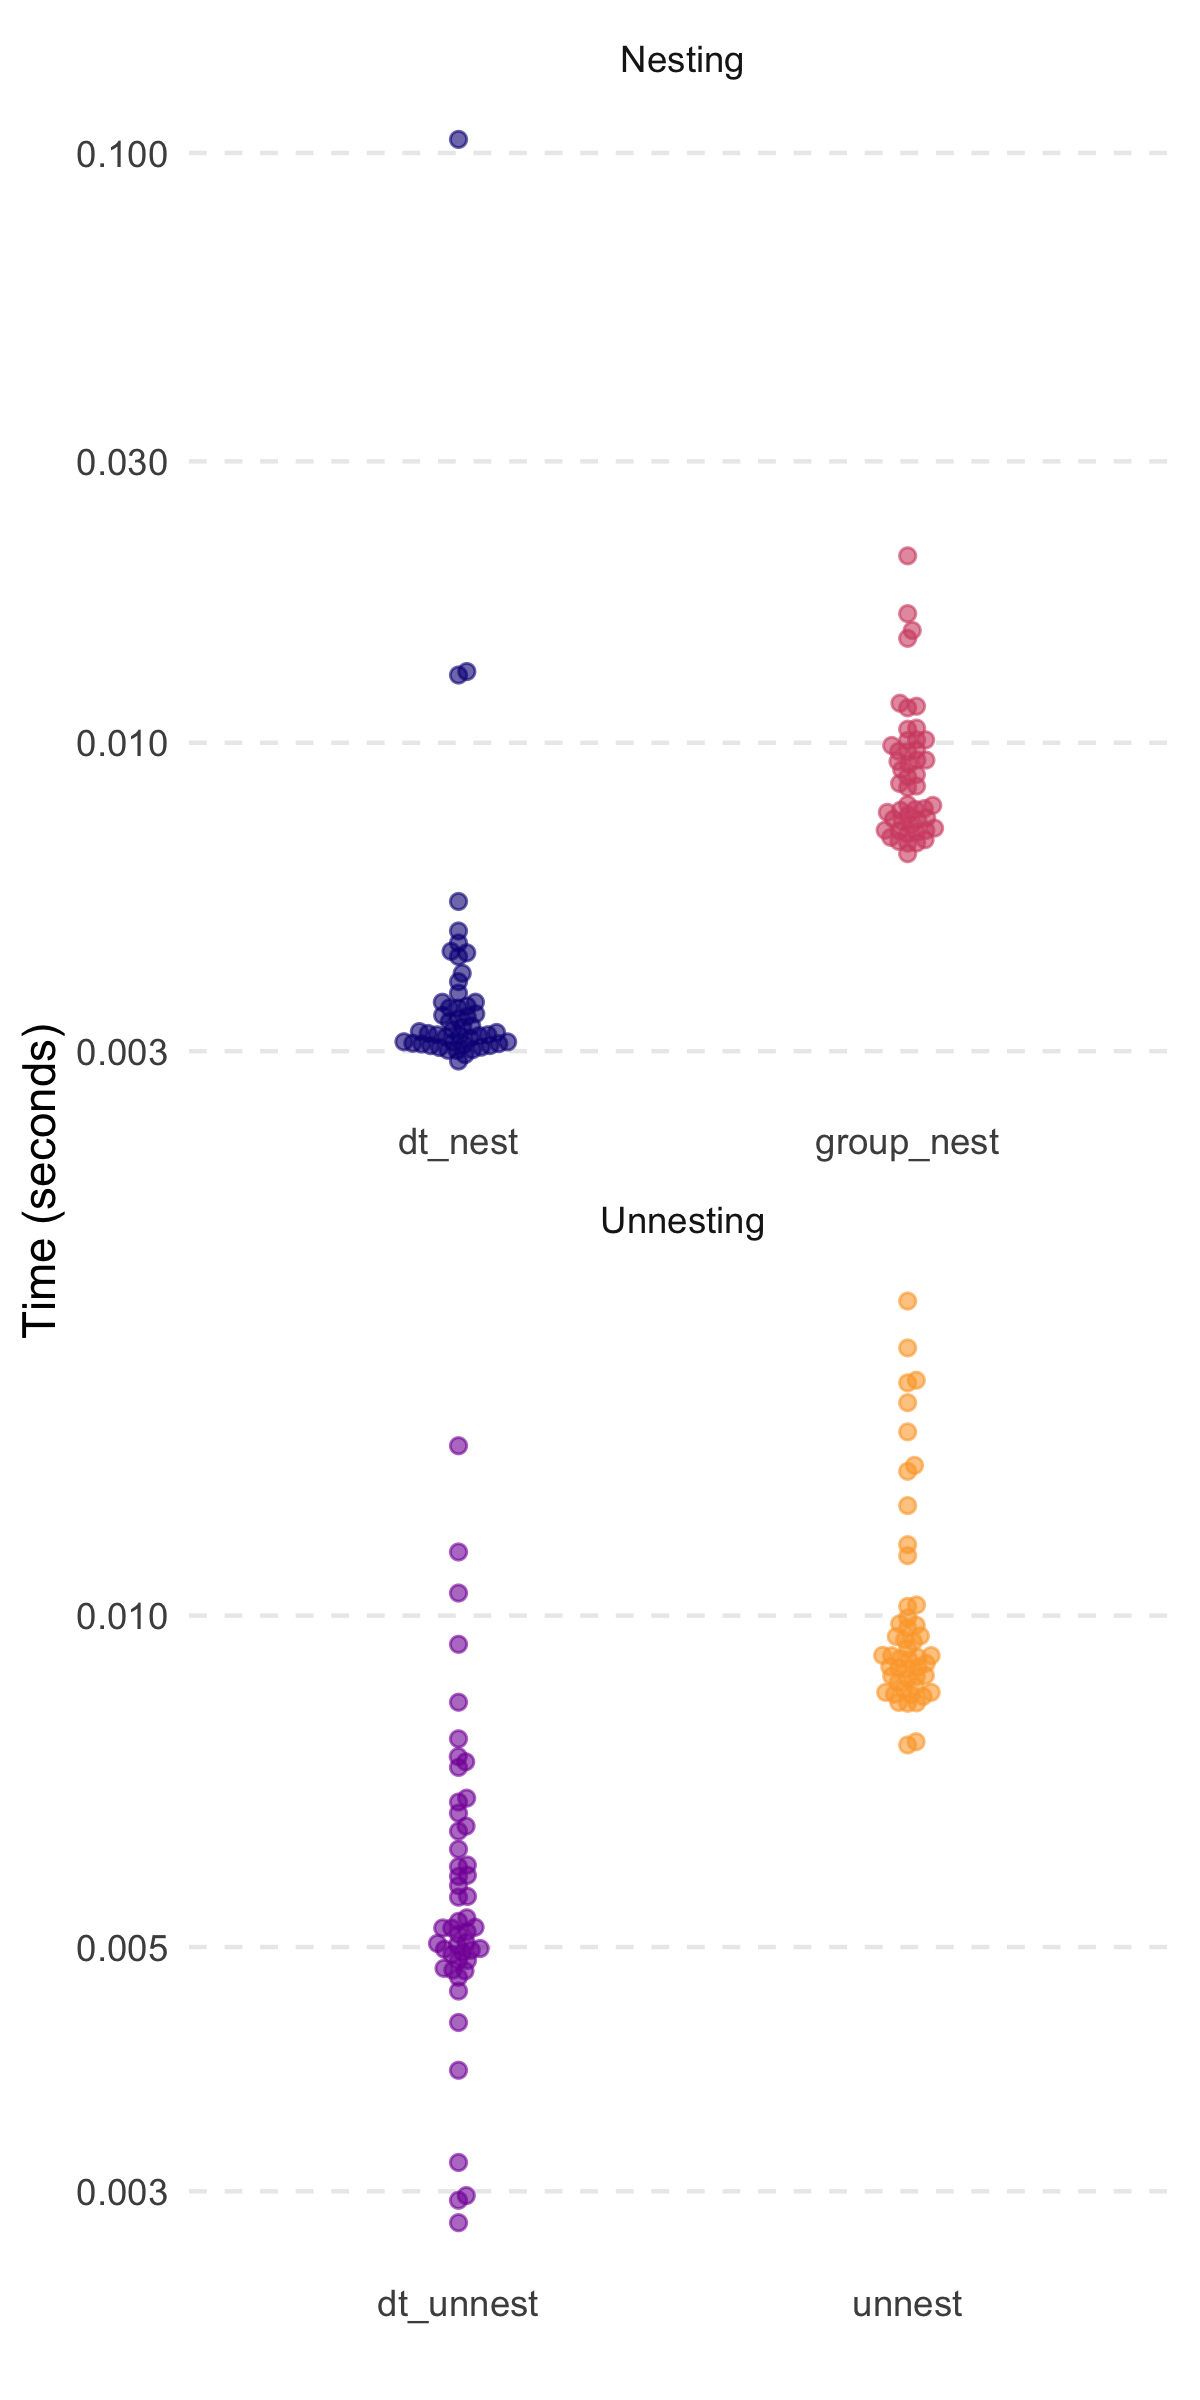
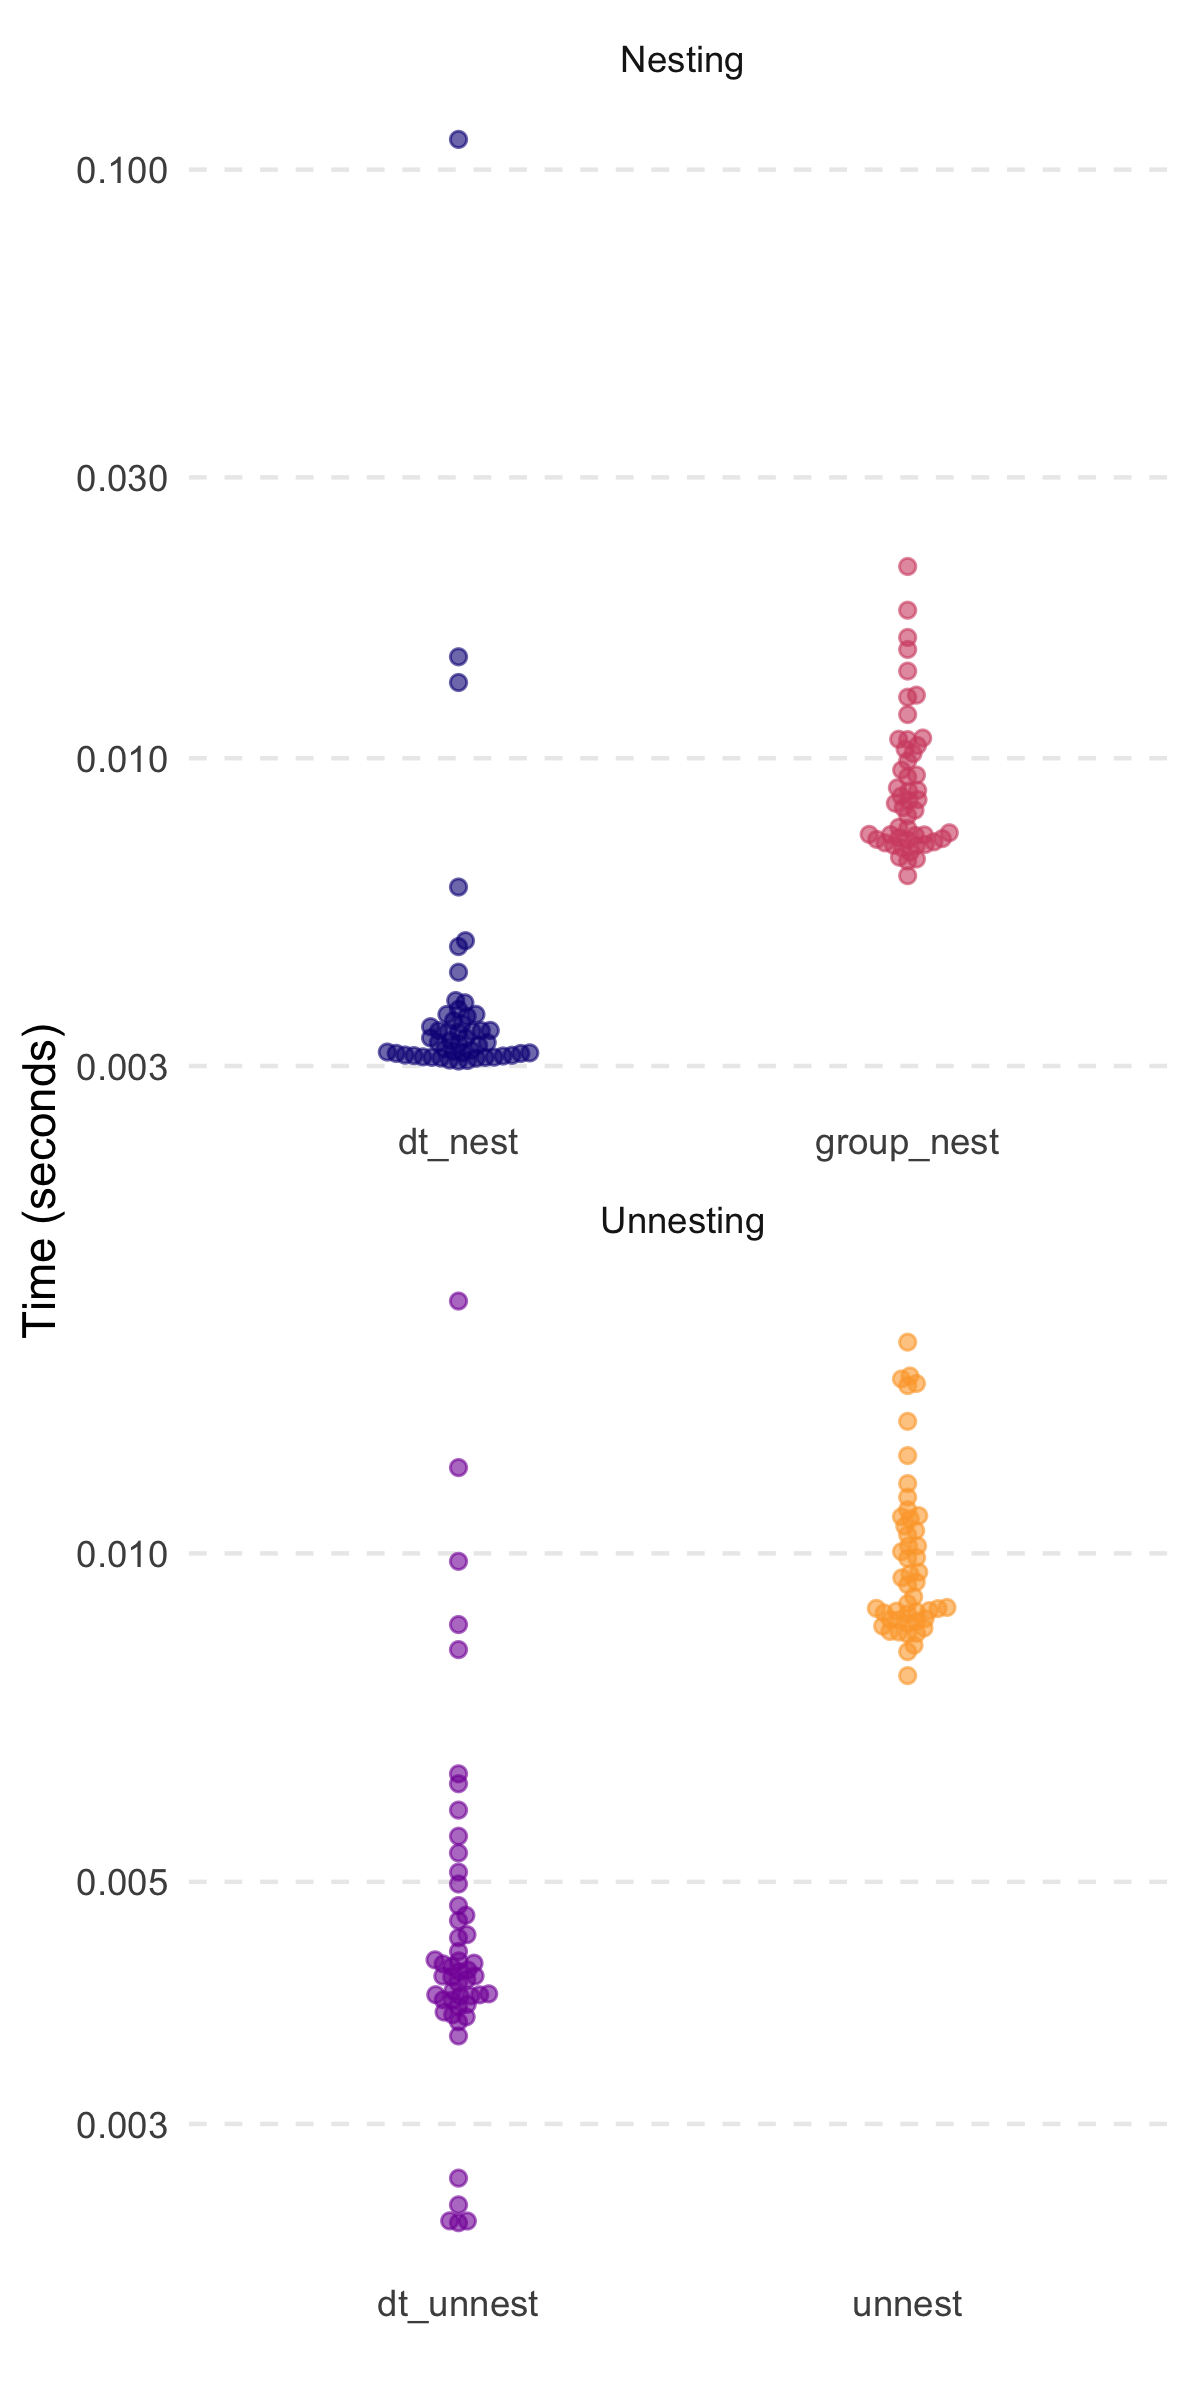
updating docs and such

diff --git a/README.md b/README.md
@@ -9,10 +9,10 @@
 status](https://www.r-pkg.org/badges/version/tidyfast)](https://CRAN.R-project.org/package=tidyfast)
 [![Lifecycle:
 maturing](https://img.shields.io/badge/lifecycle-maturing-blue.svg)](https://www.tidyverse.org/lifecycle/#maturing)
-[![Travis build
-status](https://travis-ci.org/TysonStanley/tidyfast.svg?branch=master)](https://travis-ci.org/TysonStanley/tidyfast)
 [![Codecov test
 coverage](https://codecov.io/gh/TysonStanley/tidyfast/branch/master/graph/badge.svg)](https://codecov.io/gh/TysonStanley/tidyfast?branch=master)
+[![R build
+status](https://github.com/TysonStanley/tidyfast/workflows/R-CMD-check/badge.svg)](https://github.com/TysonStanley/tidyfast/actions)
 <!-- badges: end -->
 
 The goal of `tidyfast` is to provide fast and efficient alternatives to
@@ -216,13 +216,13 @@ highlighted below. Notably, the timings are without the `nested1` and
     #> # A tibble: 2 x 3
     #>   expression   median mem_alloc
     #>   <chr>      <bch:tm> <bch:byt>
-    #> 1 dt_nest      3.23ms    2.88MB
-    #> 2 group_nest   7.84ms    5.38MB
+    #> 1 dt_nest      3.29ms    2.88MB
+    #> 2 group_nest   8.07ms    5.38MB
     #> # A tibble: 2 x 3
     #>   expression   median mem_alloc
     #>   <chr>      <bch:tm> <bch:byt>
-    #> 1 dt_unnest    5.16ms    5.48MB
-    #> 2 unnest       9.02ms    6.06MB
+    #> 1 dt_unnest    4.09ms     5.1MB
+    #> 2 unnest       8.92ms    6.06MB
 
 ## Pivoting
 
@@ -296,9 +296,9 @@ But let’s compare some basic speed and efficiency. Because of the
     #>   expression        median mem_alloc
     #>   <chr>           <bch:tm> <bch:byt>
     #> 1 dt_pivot_longer   1.01ms  996.21KB
-    #> 2 pivot_longer      7.89ms    2.45MB
-    #> 3 dt_pivot_wider   11.41ms    1.86MB
-    #> 4 pivot_wider      10.57ms    2.09MB
+    #> 2 pivot_longer      8.71ms    2.45MB
+    #> 3 dt_pivot_wider   11.15ms    1.86MB
+    #> 4 pivot_wider       9.06ms    2.09MB
 
 ### If Else
 
@@ -347,9 +347,9 @@ built on `data.table::fifelse()`.
     #> # A tibble: 3 x 3
     #>   expression     median mem_alloc
     #>   <chr>        <bch:tm> <bch:byt>
-    #> 1 case_when     142.3ms   148.8MB
-    #> 2 dt_case_when   35.6ms    34.3MB
-    #> 3 fifelse        36.3ms    34.3MB
+    #> 1 case_when     143.8ms   148.8MB
+    #> 2 dt_case_when   40.4ms    34.3MB
+    #> 3 fifelse        37.8ms    34.3MB
 
 ## Fill
 
@@ -457,8 +457,8 @@ marks3 <-
     #> # A tibble: 2 x 3
     #>   expression                                    median mem_alloc
     #>   <bch:expr>                                  <bch:tm> <bch:byt>
-    #> 1 tidyr::fill(dplyr::group_by(df3, id), x, y)   47.9ms    42.6MB
-    #> 2 tidyfast::dt_fill(dt3, x, y, id = list(id))   24.9ms    29.1MB
+    #> 1 tidyr::fill(dplyr::group_by(df3, id), x, y)   46.7ms    42.6MB
+    #> 2 tidyfast::dt_fill(dt3, x, y, id = list(id))   25.9ms    29.1MB
 
 ## Separate
 
@@ -500,9 +500,9 @@ than `tidyr::separate()`.
     #> # A tibble: 3 x 3
     #>   expression            median mem_alloc
     #>   <chr>               <bch:tm> <bch:byt>
-    #> 1 separate               5.51s    3.89GB
-    #> 2 dt_separate         118.89ms   30.55MB
-    #> 3 dt_separate-mutable  110.4ms   26.72MB
+    #> 1 separate               6.42s    3.89GB
+    #> 2 dt_separate         120.91ms   30.55MB
+    #> 3 dt_separate-mutable 115.84ms   26.72MB
 
 ## Count and Uncount
 

diff --git a/cran-comments.md b/cran-comments.md
@@ -6,8 +6,5 @@
 
 ## R CMD check results
 
-0 errors | 0 warnings | 1 note
+0 errors | 0 warnings | 0 note
 
-* This is a new release.
-
-This is a resubmission.
